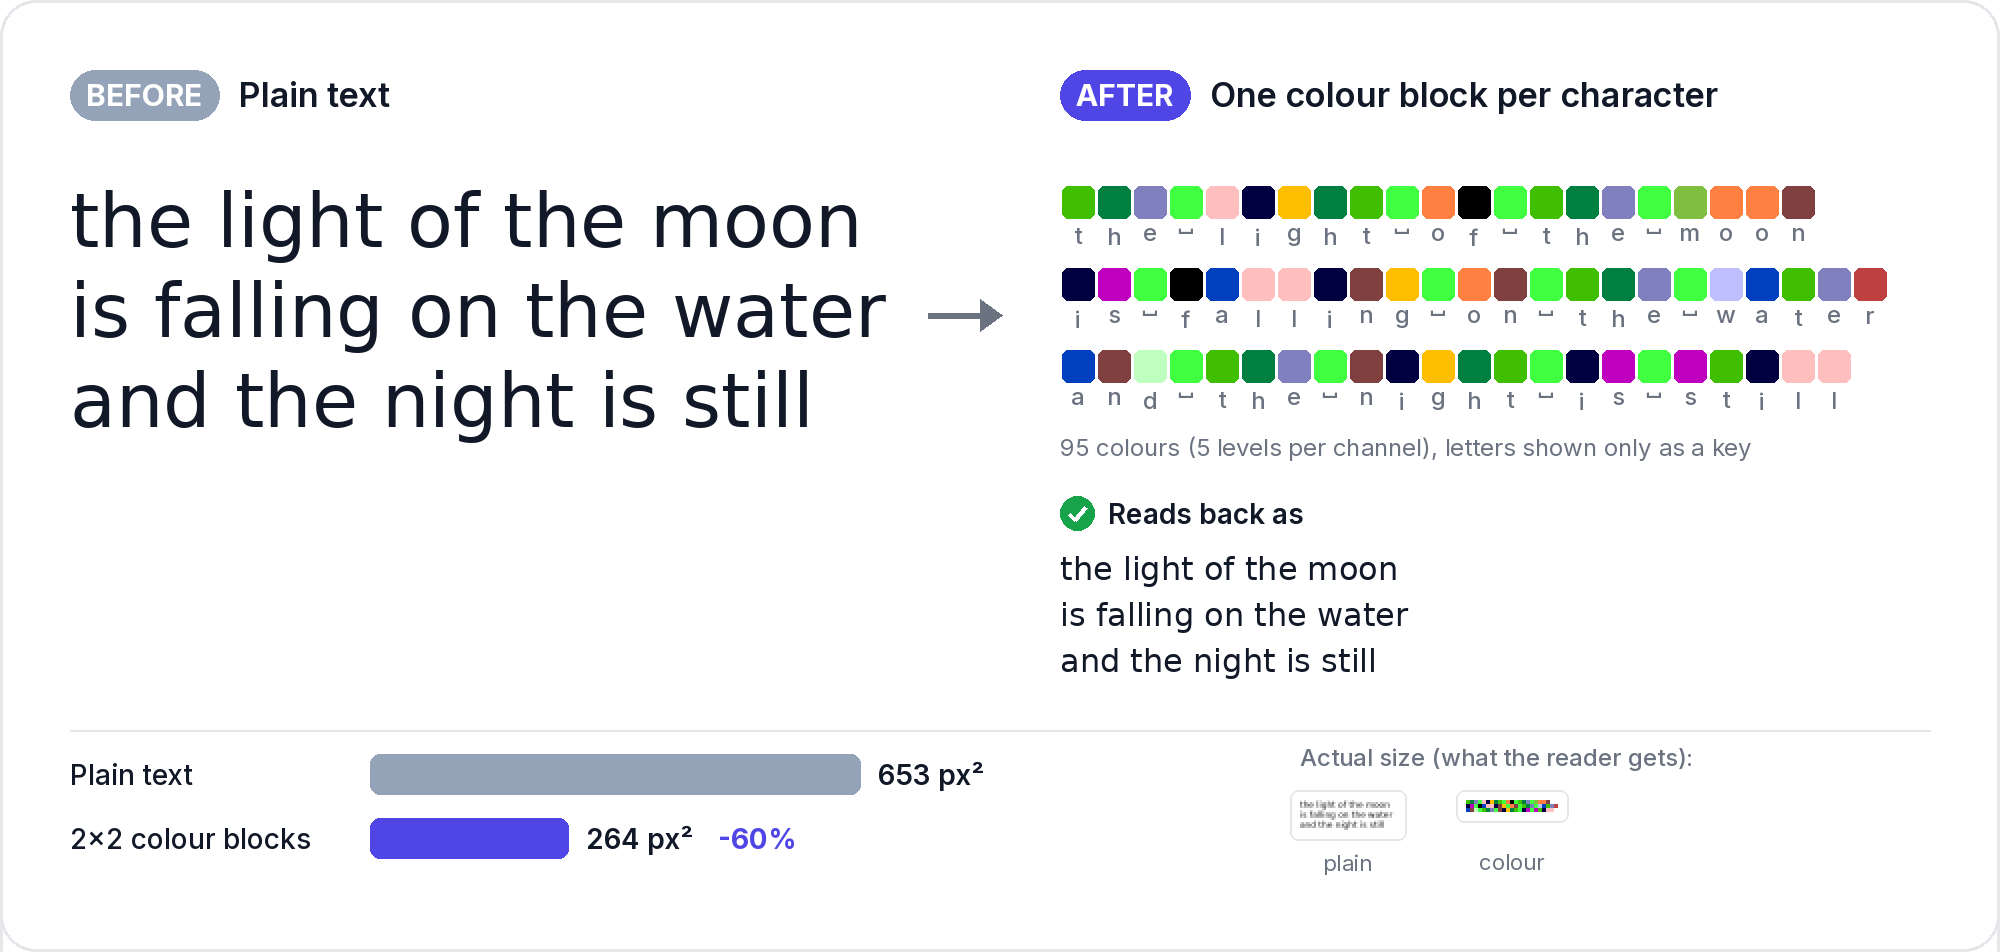
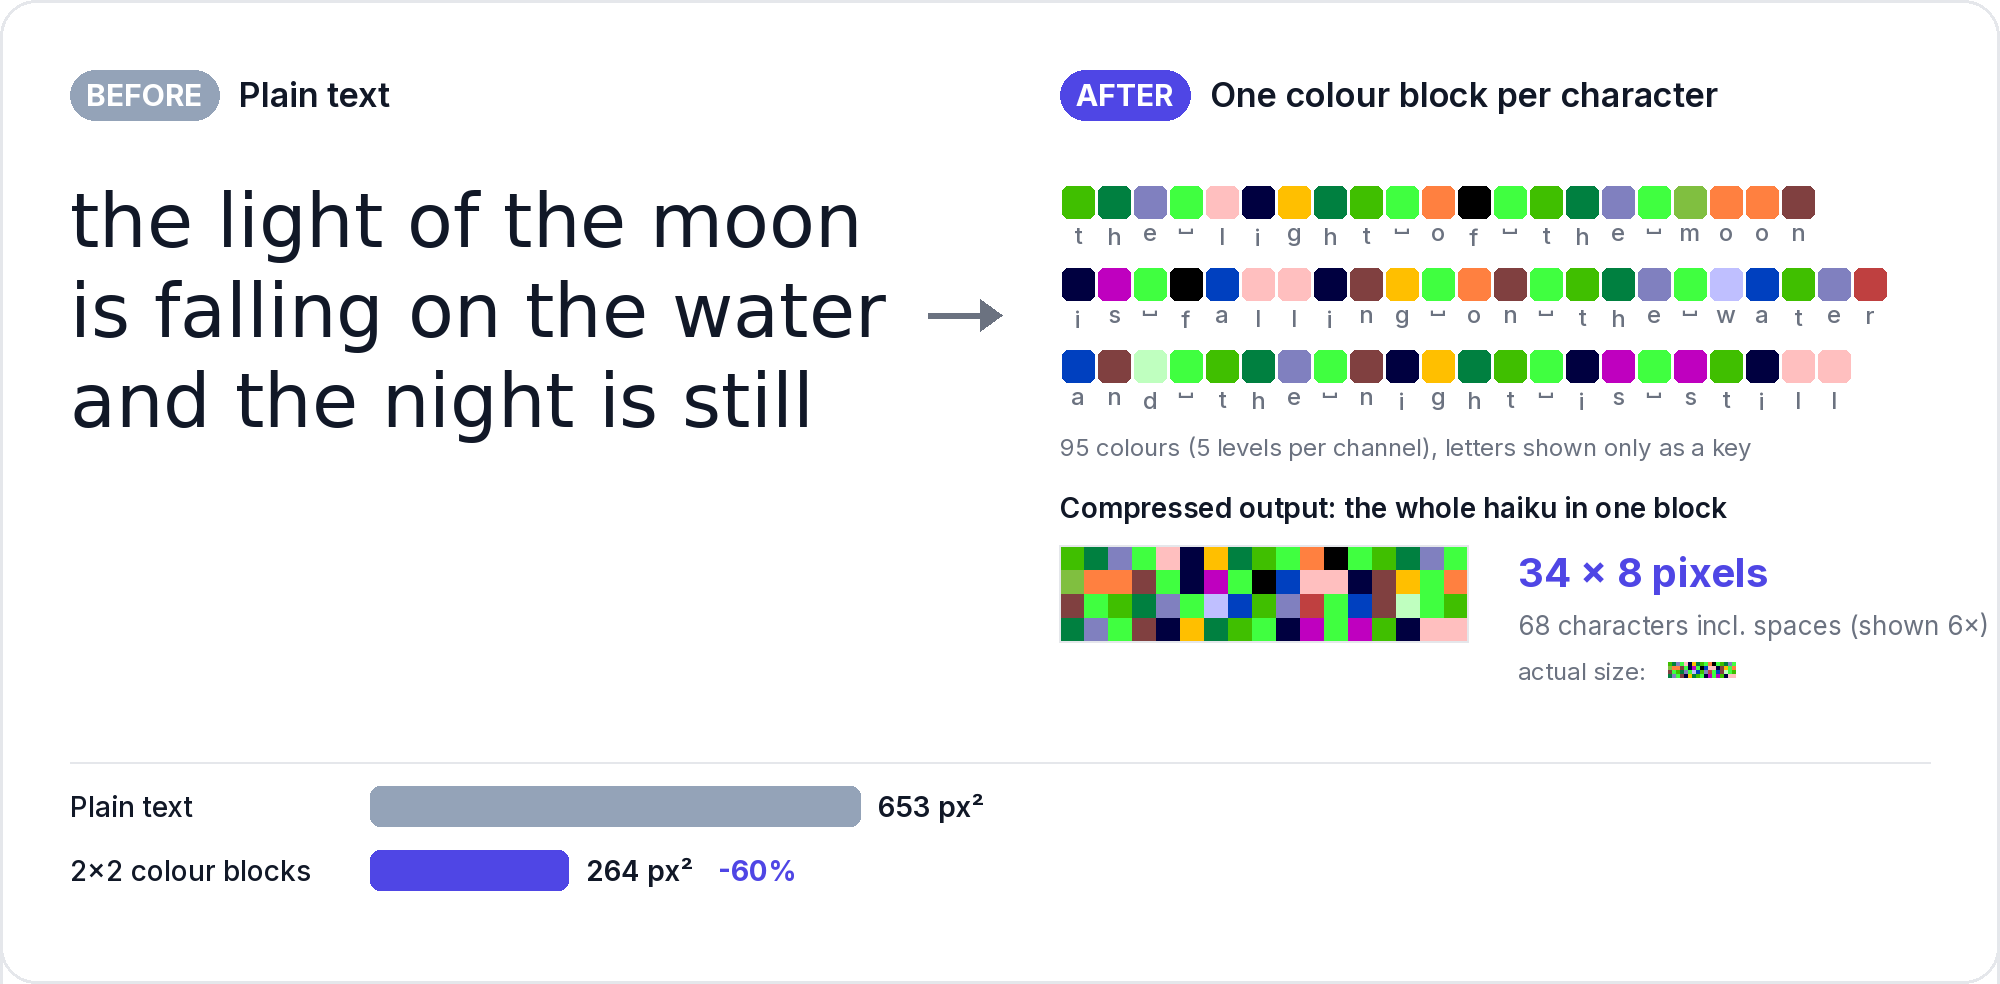
README figures: glyphs show chunk substitution (letters kept), colour shows the compressed block
Figure 1 now uses the real subst300 renderer (DejaVu leftovers) so frequent chunks become one glyph
and other letters stay. Drop the read-back panels; figure 2 shows the whole haiku as one 34x8 px block.

Claude-Session: https://claude.ai/code/session_01WVzSJALEZhrm1JGLeEVHgT

diff --git a/scripts/make_readme_figures.py b/scripts/make_readme_figures.py
@@ -1,11 +1,11 @@
 """Draw the three README demo figures (docs/img/*.png) for one short haiku.
 
-1. glyphs.png   plain text vs the learned whole-pixel glyph alphabet (N=300 chunks)
+1. glyphs.png   plain text vs Visual BPE substitution: frequent chunks become one glyph (subst300)
 2. colour.png   plain text vs one coloured 2x2-pixel block per character (encoder_probe col_b2)
 3. rgb.png      three lines of text vs the same three lines overlaid in the R, G and B channels (rgb3)
 
 Every picture is drawn at one zoom factor per figure, so widths and areas compare honestly; each figure
-also shows the real 1:1 pixels ("actual size"). Needs torch (to read the bank) and the fonts from
+also shows the real 1:1 pixels ("actual size"). Needs the fonts from
 scripts/fetch_fonts.sh (Inter is optional: labels fall back to DejaVu Sans).
 
     python3 scripts/make_readme_figures.py
@@ -16,18 +16,14 @@ import sys
 from pathlib import Path
 
 import numpy as np
-import torch
 from PIL import Image, ImageDraw, ImageFont
 
 ROOT = Path(__file__).resolve().parent.parent
 sys.path.insert(0, str(ROOT))
-sys.path.insert(0, str(ROOT / "learned_glyphs"))
 
 from encoder_probe.ep.pages import PRINTABLE, palette  # noqa: E402
-from lg.alphabet import Alphabet  # noqa: E402
 
 OUT = ROOT / "docs" / "img"
-BANK = ROOT / "learned_glyphs/results/e1long/banks/lg_learned_n300_pb_h5.pt"
 HAIKU = ["the light of the moon", "is falling on the water", "and the night is still"]
 
 DEJAVU = "/usr/share/fonts/truetype/dejavu/DejaVuSans.ttf"
@@ -131,103 +127,78 @@ def latin_panel(d, x, y, z, highlights=None, font_path=DEJAVU):
     return max(f.getlength(t) for t in HAIKU)
 
 
-GOOD = (22, 163, 74)
+
+# --------------------------------------------------------------------------- figure 1: chunk glyphs
+def units_mask(units, em: float, height: int, top_baseline: float) -> tuple[Image.Image, float]:
+    """Draw one line of scheme units (black on white, 'L') and return it with its width."""
+    wpx = sum(u.advance(em) for u in units)
+    m = Image.new("L", (int(wpx) + 4, height), 255)
+    g, x = ImageDraw.Draw(m), 0.0
+    for u in units:
+        u.draw(g, x, top_baseline, em)
+        x += u.advance(em)
+    return m, wpx
 
 
-def reads_as_label(d, x, y, sub=""):
-    d.ellipse([x, y, x + 34, y + 34], fill=GOOD)
-    d.line([(x + 9, y + 18), (x + 15, y + 24), (x + 26, y + 11)], fill=(255, 255, 255), width=4)
-    f = ui(28, "SemiBold")
-    d.text((x + 48, y + 17), "Reads back as", font=f, fill=INK, anchor="lm")
-    if sub:
-        d.text((x + 58 + d.textlength("Reads back as", font=f), y + 17), sub, font=ui(26), fill=MUTED, anchor="lm")
-
-
-def reads_as(d, x, y, highlights=None):
-    """The decoded haiku under an AFTER panel (optionally with the chunk tints). Returns the bottom y."""
-    reads_as_label(d, x, y)
-    f = ImageFont.truetype(DEJAVU, 32)
-    lh = 46
-    for i, t in enumerate(HAIKU):
-        top = y + 50 + i * lh
-        for s0, e, tint in (highlights or [[]] * 3)[i]:
-            x0, x1 = x + f.getlength(t[:s0]), x + f.getlength(t[:e])
-            d.rounded_rectangle([x0 + 1, top + 2, x1 - 1, top + lh - 4], radius=8, fill=tint)
-        d.text((x, top + 34), t, font=f, fill=INK, anchor="ls")
-    return y + 50 + 3 * lh
-
-
-# --------------------------------------------------------------------------- figure 1: learned glyphs
 def fig_glyphs():
-    bank = torch.load(BANK, map_location="cpu", weights_only=False)
-    syms, ink, wss, ss = bank["symbols"], bank["ink"].numpy(), bank["widths_ss"].numpy(), bank["ss"]
-    alpha = Alphabet(syms[95:])
+    """Visual BPE as in vbpe.schemes.substitution: frequent chunks -> one glyph, other letters unchanged.
+    Same font (DejaVu Sans) for leftover letters on both sides, so only the substitution differs."""
+    from vbpe.schemes.substitution import CJKUnit, SubstitutionScheme
+    scheme = SubstitutionScheme(300, leftover_font=DEJAVU)
     z = 20
-    # segment, assign one tint per distinct chunk
-    segs, tint_of = [], {}
-    for t in HAIKU:
-        ids = alpha.encode(t)
-        segs.append(ids)
-        for i in ids:
-            if alpha.is_token(i) and i not in tint_of:
-                tint_of[i] = TINTS[len(tint_of) % len(TINTS)]
-    hl = []
-    for t, ids in zip(HAIKU, segs):
+    em, pitch = EM * z, PITCH * z
+    enc = [scheme.encode(t) for t in HAIKU]
+    tint_of, hl = {}, []
+    for t, units in zip(HAIKU, enc):
         pos, row = 0, []
-        for i in ids:
-            n = len(syms[i])
-            if i in tint_of:
-                row.append((pos, pos + n, tint_of[i]))
+        for u in units:
+            n = len(u.source)
+            if isinstance(u, CJKUnit):
+                tint_of.setdefault(u.char, TINTS[len(tint_of) % len(TINTS)])
+                row.append((pos, pos + n, tint_of[u.char]))
             pos += n
         hl.append(row)
-
-    def cell_px(i):          # whole-pixel bitmap (5 x w) of symbol i, 1 = ink
-        w = int(wss[i]) // ss
-        a = ink[i][:, : int(wss[i])]
-        return a.reshape(PITCH, ss, w, ss).mean((1, 3)) > 0.5
 
     img, d = new_card(1160)
     lx, rx, ty = 70, 1230, 70
     panel_title(d, lx, ty, "BEFORE", "Plain text", BEFORE)
-    panel_title(d, rx, ty, "AFTER", "Learned glyphs", AFTER)
+    panel_title(d, rx, ty, "AFTER", "Chunks become one glyph", AFTER)
     y0 = ty + 110
     lw = latin_panel(d, lx, y0, z, hl)
-    arrow(d, (lx + lw + rx) / 2 - 10, y0 + 1.5 * PITCH * z)
+    arrow(d, (lx + lw + rx) / 2 - 10, y0 + 1.5 * pitch)
 
-    pitch = PITCH * z
-    real = np.full((PITCH * 3, 40), 255, np.uint8)
     glyph_w = []
-    for li, ids in enumerate(segs):
-        x, top, k = rx, y0 + li * pitch, 0
-        row_real = []
-        for i in ids:
-            bm = cell_px(i)
-            w = bm.shape[1]
-            bg = tint_of.get(i) or (CELL_A if k % 2 == 0 else CELL_B)
-            k += i not in tint_of
-            d.rounded_rectangle([x + 2, top + 2, x + w * z - 3, top + pitch - 3], radius=6, fill=bg)
-            for r, c in zip(*np.nonzero(bm)):
-                px, py = x + c * z, top + r * z
-                d.rounded_rectangle([px + 2, py + 2, px + z - 2, py + z - 2], radius=3, fill=INK)
-            x += w * z
-            row_real.append(np.where(bm, 0, 255).astype(np.uint8))
-        glyph_w.append((x - rx) / z)
-        line = np.concatenate(row_real, 1)
-        real[li * PITCH:(li + 1) * PITCH, : line.shape[1]] = line
+    for li, units in enumerate(enc):
+        top = y0 + li * pitch
+        x = rx
+        for u in units:                       # tint behind each glyph, matching the BEFORE highlight
+            a = u.advance(em)
+            if isinstance(u, CJKUnit):
+                d.rounded_rectangle([x + 1, top + 8, x + a - 1, top + pitch - 8], radius=14, fill=tint_of[u.char])
+            x += a
+        m, wpx = units_mask(units, em, pitch, 0.9 * em)
+        img.paste(INK, (rx, top), Image.eval(m, lambda v: 255 - v))
+        glyph_w.append(wpx / z)
+    yc = y0 + 3 * pitch + 24
+    d.text((lx, yc), "coloured = frequent chunks (from a 300-entry dictionary)", font=ui(24), fill=MUTED, anchor="lt")
+    d.text((rx, yc), "each chunk is drawn as ONE symbol; other letters stay", font=ui(24), fill=MUTED, anchor="lt")
+
+    # real 5-px renders (4x supersampled, box-downsampled, as in the experiments)
+    ss = 4
+    reals = []
+    for units in enc:
+        m, _ = units_mask(units, EM * ss, PITCH * ss, 0.9 * EM * ss)
+        reals.append(np.asarray(m.resize((m.width // ss, PITCH), Image.BOX)))
+    real = np.full((PITCH * 3, max(r.shape[1] for r in reals)), 255, np.uint8)
+    for i, r in enumerate(reals):
+        real[i * PITCH:(i + 1) * PITCH, : r.shape[1]] = r
 
     n_chars = sum(len(t) for t in HAIKU)
-    n_syms = sum(len(s) for s in segs)
+    n_syms = sum(len(u) for u in enc)
     f = ImageFont.truetype(DEJAVU, 400)
     latin_w = sum(f.getlength(t) / 400 * EM for t in HAIKU)
     gw = sum(glyph_w)
-    # caption under the glyph panel
-    yc = y0 + 3 * pitch + 24
-    d.text((rx, yc), "each coloured cell is ONE glyph for a whole chunk",
-           font=ui(24), fill=MUTED, anchor="lt")
-    d.text((lx, yc), "coloured = chunks from the 300-entry dictionary", font=ui(24), fill=MUTED, anchor="lt")
-    ye = reads_as(d, rx, yc + 60, hl)
-
-    yb = ye + 70
+    yb = yc + 80
     d.line([lx, yb - 24, W - 70, yb - 24], fill=FAINT, width=2)
     y = bars(d, lx, yb, 1120, [
         (f"Plain: {n_chars} chars", latin_w, BEFORE, ""),
@@ -268,7 +239,27 @@ def fig_colour():
     yc = y0 + 3 * row_h + 10
     d.text((rx, yc), "95 colours (5 levels per channel), letters shown only as a key",
            font=ui(24), fill=MUTED, anchor="lt")
-    ye = reads_as(d, rx, yc + 60)
+    # compressed output: the whole haiku as one block of 2x2-px cells
+    text = " ".join(HAIKU)
+    cols = 17                        # 68 = 17 x 4, a full rectangle
+    rows = -(-len(text) // cols)
+    block = np.full((rows * b, cols * b, 3), 255, np.uint8)
+    for k, ch in enumerate(text):
+        r, c = divmod(k, cols)
+        block[r * b:(r + 1) * b, c * b:(c + 1) * b] = pal[idx[ch]]
+    yo = yc + 60
+    d.text((rx, yo), "Compressed output: the whole haiku in one block", font=ui(28, "SemiBold"), fill=INK, anchor="lt")
+    zoom = 12
+    big = Image.fromarray(block).resize((block.shape[1] * zoom, block.shape[0] * zoom), Image.NEAREST)
+    img.paste(big, (rx, yo + 50))
+    d.rectangle([rx - 1, yo + 49, rx + big.width, yo + 50 + big.height], outline=FAINT, width=2)
+    tx = rx + big.width + 50
+    d.text((tx, yo + 60), f"{block.shape[1]} \u00d7 {block.shape[0]} pixels", font=ui(40, "Bold"), fill=AFTER, anchor="lt")
+    d.text((tx, yo + 116), f"{len(text)} characters incl. spaces (shown {zoom // 2}\u00d7)", font=ui(26), fill=MUTED, anchor="lt")
+    d.text((tx, yo + 166), "actual size:", font=ui(24), fill=MUTED, anchor="lt")
+    act = Image.fromarray(block).resize((block.shape[1] * 2, block.shape[0] * 2), Image.NEAREST)
+    img.paste(act, (tx + 150, yo + 166))
+    ye = yo + 50 + max(big.height, 170)
 
     n_chars = sum(len(t) for t in HAIKU)
     f = ImageFont.truetype(DEJAVU, 400)
@@ -279,7 +270,6 @@ def fig_colour():
         ("Plain text", latin_area, BEFORE, ""),
         ("2×2 colour blocks", n_chars * b * b, AFTER, f"  {n_chars * b * b / latin_area - 1:+.0%}"),
     ], "px²")
-    actual_size(img, d, 1300, yb - 6, [(latin_real(HAIKU), "plain"), (real, "colour")])
     img = img.crop((0, 0, W, y + 70))
     d = ImageDraw.Draw(img)
     d.rounded_rectangle([0, 0, W - 1, img.height - 1], radius=36, outline=FAINT, width=3)
@@ -336,22 +326,7 @@ def fig_rgb():
     d.text((rx, ytop + comp.height + 50), "where all three overlap the pixel is black",
            font=ui(24), fill=MUTED, anchor="lt")
 
-    # channel split: each channel alone gives one clean line back
-    ys = y0 + 3 * (pitch + 14) + 40
-    d.line([lx, ys - 20, W - 70, ys - 20], fill=FAINT, width=2)
-    reads_as_label(d, lx, ys + 4)
-    d.text((lx + 48, ys + 52), "split the colour channels and", font=ui(26), fill=MUTED, anchor="lt")
-    d.text((lx + 48, ys + 88), "each line comes back on its own", font=ui(26), fill=MUTED, anchor="lt")
-    arr = np.asarray(comp)
-    sx, sw = 620, int(comp.width * 0.6)
-    for c, (tag, col) in enumerate(chips):
-        ch = Image.fromarray(arr[:, :, c]).convert("RGB")
-        ch = ch.resize((sw, int(ch.height * 0.6)), Image.LANCZOS)
-        yy = ys + c * (ch.height + 10)
-        d.rounded_rectangle([sx, yy + 6, sx + 36, yy + ch.height - 6], radius=8, fill=col)
-        d.text((sx + 18, yy + ch.height / 2), tag, font=ui(22, "Bold"), fill=(255, 255, 255), anchor="mm")
-        img.paste(ch, (sx + 50, yy))
-    yb = ys + 3 * (ch.height + 10) + 50
+    yb = ytop + comp.height + 140
     d.line([lx, yb - 24, W - 70, yb - 24], fill=FAINT, width=2)
 
     real3 = overlay(mono_masks(1, ss=4))

diff --git a/README.md b/README.md
@@ -18,16 +18,19 @@ were *trained* on the rendering, so neither side gets an unfair advantage.
 ## 1. Glyphs: one symbol for a frequent chunk of letters
 
 Byte-pair encoding (BPE) merges frequent letter sequences such as `the`, `ing` and ` of the ` into single
-tokens. *Visual* BPE does the same on the page: each of the 300 most useful chunks gets its own glyph, so a line
-needs fewer symbols.
+tokens. *Visual* BPE does the same on the page: each of the 300 most useful chunks gets its own glyph, and
+every other letter stays as it is. So `something` becomes `s` + glyph(`ome`) + `th` + glyph(`ing`).
 
-![Plain text vs learned glyphs](docs/img/glyphs.png)
+![Plain text vs text with chunks drawn as single glyphs](docs/img/glyphs.png)
 
-The haiku goes from **66 characters to 32 symbols**, and its lines get **36% shorter** at the same line height.
-The glyph shapes were **learned**: a small alphabet of whole-pixel bitmaps (5 px tall) was optimised together
-with a reader, so every glyph is easy to tell apart at tiny sizes. The first attempt used hand-picked Chinese
-characters as glyphs instead. That **failed**: a Chinese character needs a larger font to stay legible, which
-cancels the width saved.
+The haiku goes from **66 characters to 32 symbols**, and its lines get **39% shorter** at the same font size.
+
+There are two versions of the glyphs:
+* **Hand-picked (pictured): common Chinese characters as the chunk glyphs.** This **failed**. A Chinese
+  character has much more detail than a letter, so it needs a larger font to stay legible, which cancels the
+  width saved (≥1.18× the pixels of plain text at equal accuracy).
+* **Learned: the glyph shapes are optimised together with a reader.** Every symbol, single letters included,
+  becomes a small bitmap that is easy to tell apart at tiny sizes ([glyph atlas](learned_glyphs/results/e1long/atlas/lg_learned_n300_pb_h5.png)).
 
 **Result:** learned glyphs need **0.57×** the pixels of plain text for the same accuracy, so about 1.75× more
 text fits per image (whole-pixel version: 0.77–0.88×). → [learned_glyphs/RESULTS.md](learned_glyphs/RESULTS.md)
@@ -39,7 +42,8 @@ solid block per character.
 
 ![Plain text vs one colour block per character](docs/img/colour.png)
 
-A 2×2-pixel block per character uses **60% less area** than the haiku in a 5-px font. A 1×1 block (a single
+A 2×2-pixel block per character uses **60% less area** than the haiku in a 5-px font: the whole haiku fits in
+a 34×8-pixel block. A 1×1 block (a single
 pixel per character) would use 90% less.
 
 **Result:** a reader that sees the raw pixels decodes this almost perfectly (1×1 blocks: 0.06% CER, 256 chars per
@@ -54,8 +58,8 @@ position, and one line of pixels carries three lines of text.
 
 ![Three lines of text vs RGB overlay](docs/img/rgb.png)
 
-Each line only darkens its own channel, so nothing is painted over: splitting the channels gives every line back
-cleanly. The overlay holds **exactly 3× the text** of a single monospace line (about 2.6× ordinary text).
+Each line only darkens its own channel, so nothing is painted over: each colour channel on its own still holds
+one clean line. The overlay holds **exactly 3× the text** of a single monospace line (about 2.6× ordinary text).
 
 **Result:** built and smoke-tested only (a 300-step test run already decodes recognisable text). The real test,
 through an OCR-grade VLM encoder, is queued. → [encoder_probe/RGB_OVERLAY.md](encoder_probe/RGB_OVERLAY.md)
